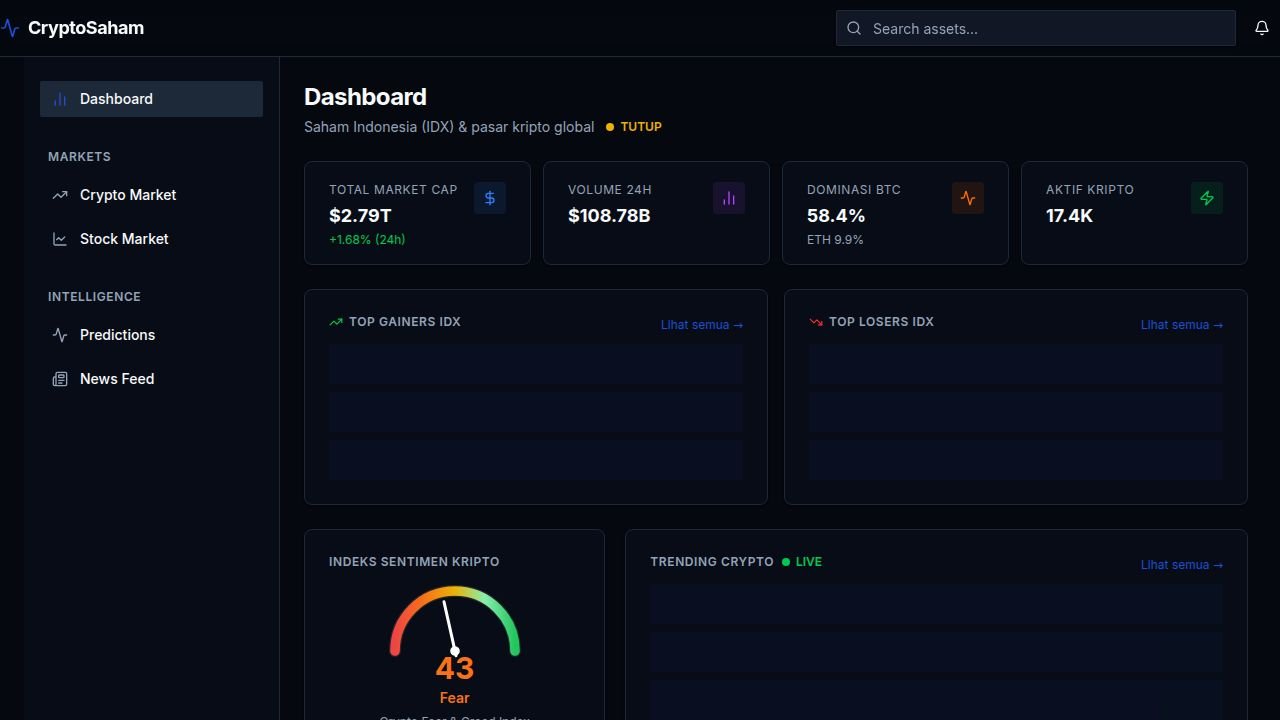
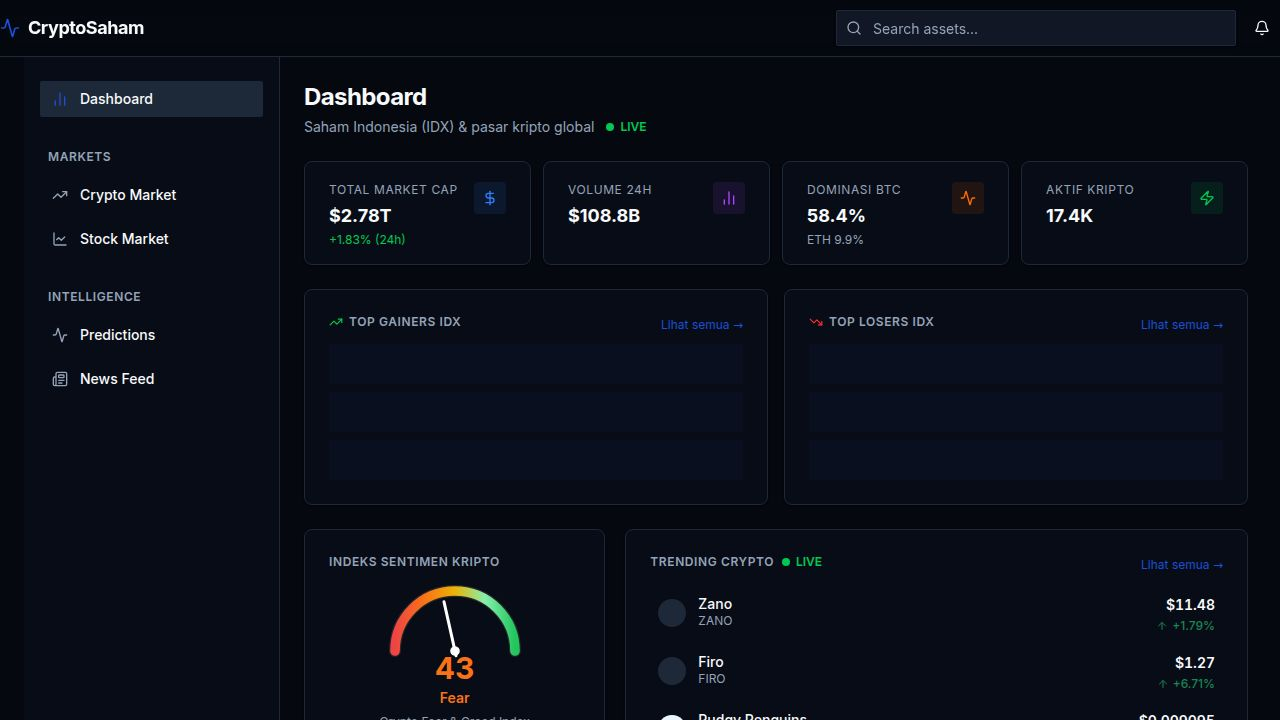
Add trade setup analysis and direction override logic for futures trading
Update `PredictionDetail.tsx` to include a detailed trade setup analysis, incorporating backend indicators, sentiment scores, and RSI. This includes a new `DirectionSignal` interface, modifications to the `buildTradeSetup` function to calculate direction overrides based on multiple evidence points, and the introduction of `TradeSetupOpts`. The changes also fix the TP percentage sign for SHORT positions and enhance the display of trading signals.

Replit-Commit-Author: Agent
Replit-Commit-Session-Id: 8d37f86b-280b-4906-b52f-c95b663b092d
Replit-Commit-Checkpoint-Type: full_checkpoint
Replit-Commit-Event-Id: dacb1cc3-58a7-4c1f-9ca8-cd51d811cc58
Replit-Commit-Screenshot-Url: https://storage.googleapis.com/screenshot-production-us-central1/5f2837b8-d4a7-41b1-ae1a-2b6d904539b2/8d37f86b-280b-4906-b52f-c95b663b092d/rMzBFxa
Replit-Helium-Checkpoint-Created: true

diff --git a/artifacts/crypto-saham/src/pages/PredictionDetail.tsx b/artifacts/crypto-saham/src/pages/PredictionDetail.tsx
@@ -36,8 +36,16 @@ type Signal = "strong_buy" | "buy" | "neutral" | "sell" | "strong_sell";
 
 /* ═══════════════════════════ TRADE SETUP ═══════════════════════════════════ */
 
+interface DirectionSignal {
+  label: string;
+  value: string;
+  bull: boolean | null; // true=bullish green, false=bearish red, null=neutral
+}
+
 interface TradeSetup {
   direction: "LONG" | "SHORT" | null;
+  directionOverridden: boolean; // true when bearish/bullish evidence overrode the base signal
+  directionSignals: DirectionSignal[];
   entryLow: number; entryHigh: number;
   stopLoss: number; slPct: number;
   tp1: number; tp1Pct: number; tp1RR: number;
@@ -46,12 +54,95 @@ interface TradeSetup {
   leverage: number; maxLeverage: number;
 }
 
+interface TradeSetupOpts {
+  backendInd?: BackendIndicators;
+  sentimentScore?: number;
+  rsi?: number;
+}
+
 function buildTradeSetup(
   signal: Signal, price: number, confidence: number,
   change24h: number, support?: number | null, resistance?: number | null,
+  opts?: TradeSetupOpts,
 ): TradeSetup | null {
   if (signal === "neutral" || price <= 0) return null;
-  const isLong = signal === "buy" || signal === "strong_buy";
+
+  // ── Direction override: count bearish vs bullish evidence ─────────────────
+  let bearish = 0;
+  let bullish = 0;
+  const b = opts?.backendInd;
+  const sent = opts?.sentimentScore ?? 0;
+  const rsi = opts?.rsi ?? 50;
+
+  if (b) {
+    if (!b.macd?.bullish)                                         bearish += 2;
+    else                                                          bullish += 2;
+    if (b.marketStructure === "downtrend")                        bearish += 3;
+    else if (b.marketStructure === "uptrend")                     bullish += 3;
+    if (b.multiTimeframeAlignment === "aligned_bear")             bearish += 2;
+    else if (b.multiTimeframeAlignment === "aligned_bull")        bullish += 2;
+    if (["bearish_engulfing","shooting_star","momentum_bear"].includes(b.candlePattern ?? "")) bearish += 1;
+    if (["bullish_engulfing","hammer","momentum_bull"].includes(b.candlePattern ?? ""))        bullish += 1;
+    if (b.bosDirection === "bearish")                             bearish += 1;
+    if (b.bosDirection === "bullish")                             bullish += 1;
+  }
+  if (sent < -0.4)      bearish += 3; // very negative news
+  else if (sent < -0.1) bearish += 1;
+  else if (sent > 0.4)  bullish += 2;
+  else if (sent > 0.1)  bullish += 1;
+  if (rsi > 78)         bearish += 2; // extreme overbought → reversal risk
+  if (rsi < 22)         bullish += 2; // extreme oversold → bounce
+
+  // Base direction from AI signal
+  let baseIsLong = signal === "buy" || signal === "strong_buy";
+  let directionOverridden = false;
+
+  // Override only when evidence is decisive AND signal is not a "strong" conviction signal
+  if (signal === "buy" && bearish >= 5 && bearish > bullish + 2) {
+    baseIsLong = false;
+    directionOverridden = true;
+  } else if (signal === "sell" && bullish >= 5 && bullish > bearish + 2) {
+    baseIsLong = true;
+    directionOverridden = true;
+  }
+  const isLong = baseIsLong;
+
+  // ── Direction signal cards for display ────────────────────────────────────
+  const directionSignals: DirectionSignal[] = [
+    {
+      label: "Sentimen Berita",
+      value: sent < -0.3 ? "Sangat Negatif" : sent < -0.1 ? "Negatif" : sent > 0.3 ? "Sangat Positif" : sent > 0.1 ? "Positif" : "Netral",
+      bull: sent < -0.1 ? false : sent > 0.1 ? true : null,
+    },
+    {
+      label: "MACD",
+      value: b?.macd ? (b.macd.bullish ? `Bullish (${b.macd.histogram > 0 ? "+" : ""}${b.macd.histogram.toFixed(2)})` : `Bearish (${b.macd.histogram > 0 ? "+" : ""}${b.macd.histogram.toFixed(2)})`) : "–",
+      bull: b?.macd ? b.macd.bullish : null,
+    },
+    {
+      label: "Struktur Pasar",
+      value: b?.marketStructure === "uptrend" ? "Uptrend (HH/HL)" : b?.marketStructure === "downtrend" ? "Downtrend (LH/LL)" : "Ranging/Sideways",
+      bull: b?.marketStructure === "uptrend" ? true : b?.marketStructure === "downtrend" ? false : null,
+    },
+    {
+      label: "Multi-Timeframe",
+      value: b?.multiTimeframeAlignment === "aligned_bull" ? "Bullish Semua TF" : b?.multiTimeframeAlignment === "aligned_bear" ? "Bearish Semua TF" : "Mixed / Tidak Selaras",
+      bull: b?.multiTimeframeAlignment === "aligned_bull" ? true : b?.multiTimeframeAlignment === "aligned_bear" ? false : null,
+    },
+    {
+      label: "RSI (14)",
+      value: rsi > 70 ? `${rsi.toFixed(0)} – Overbought` : rsi < 30 ? `${rsi.toFixed(0)} – Oversold` : `${rsi.toFixed(0)} – Normal`,
+      bull: rsi > 70 ? false : rsi < 30 ? true : null,
+    },
+    {
+      label: "Pola Candle",
+      value: b?.candlePattern ? b.candlePattern.replace(/_/g, " ") : "none",
+      bull: ["bullish_engulfing","hammer","momentum_bull"].includes(b?.candlePattern ?? "") ? true
+          : ["bearish_engulfing","shooting_star","momentum_bear"].includes(b?.candlePattern ?? "") ? false : null,
+    },
+  ];
+
+  // ── Price levels ──────────────────────────────────────────────────────────
   const entryLow  = price * (isLong ? 0.997 : 1.003);
   const entryHigh = price * (isLong ? 1.003 : 1.007);
   const vol = Math.min(Math.abs(change24h), 20);
@@ -72,6 +163,8 @@ function buildTradeSetup(
   const leverage = Math.min(baseLev + confBonus, 20);
   return {
     direction: isLong ? "LONG" : "SHORT",
+    directionOverridden,
+    directionSignals,
     entryLow, entryHigh, stopLoss,
     slPct: parseFloat(actualSlPct.toFixed(2)),
     tp1: tp(1.5), tp1Pct: tpPct(1.5), tp1RR: 1.5,
@@ -1193,7 +1286,7 @@ function FuturesTradingGuide({ setup, isCrypto, assetName }: {
                   <div>
                     <p className={`text-[11px] font-semibold uppercase tracking-wider ${t.textColor}`}>{t.label}</p>
                     <p className="text-lg font-extrabold tabular-nums mt-0.5">{fmt(t.price)}</p>
-                    <p className={`text-xs mt-0.5 ${t.textColor}`}>+{t.pct}% dari entry · {t.note}</p>
+                    <p className={`text-xs mt-0.5 ${t.textColor}`}>{isLong ? "+" : "-"}{t.pct}% dari entry · {t.note}</p>
                   </div>
                   <div className="text-right min-w-[80px]">
                     <p className="text-[10px] text-muted-foreground">Risk/Reward</p>
@@ -1243,6 +1336,36 @@ function FuturesTradingGuide({ setup, isCrypto, assetName }: {
           </ol>
         </div>
 
+        {/* Direction signals panel */}
+        <div>
+          <p className="text-xs text-muted-foreground font-semibold uppercase tracking-wider mb-2 flex items-center gap-1.5">
+            <Brain className="h-3.5 w-3.5" /> Dasar Analisis Posisi {isLong ? "LONG" : "SHORT"}
+          </p>
+          {setup.directionOverridden && (
+            <div className="mb-2 flex items-center gap-1.5 rounded-lg bg-orange-500/10 border border-orange-500/30 px-2.5 py-1.5">
+              <AlertTriangle className="h-3 w-3 text-orange-400 shrink-0" />
+              <span className="text-[11px] text-orange-400 font-semibold">
+                Arah diubah AI: bukti {isLong ? "bullish" : "bearish"} dari multiple indikator mengalahkan sinyal dasar
+              </span>
+            </div>
+          )}
+          <div className="grid grid-cols-1 gap-1">
+            {setup.directionSignals.map((s) => (
+              <div key={s.label} className="flex items-center justify-between py-1.5 px-2.5 rounded-lg bg-muted/30 border border-border">
+                <span className="text-xs text-muted-foreground">{s.label}</span>
+                <span className={`text-xs font-semibold ${s.bull === true ? "text-green-400" : s.bull === false ? "text-red-400" : "text-yellow-400"}`}>
+                  {s.bull === true ? "▲ " : s.bull === false ? "▼ " : "– "}{s.value}
+                </span>
+              </div>
+            ))}
+          </div>
+          <p className="text-[11px] text-muted-foreground mt-2">
+            {isLong
+              ? "AI merekomendasikan LONG karena sinyal bullish lebih dominan dari indikator teknikal dan sentimen berita."
+              : "AI merekomendasikan SHORT karena sinyal bearish mendominasi — harga diperkirakan akan turun berdasarkan teknikal dan/atau sentimen berita negatif."}
+          </p>
+        </div>
+
         {/* Disclaimer */}
         <div className="flex items-start gap-2 p-3 bg-yellow-500/5 border border-yellow-500/20 rounded-lg">
           <Info className="h-3.5 w-3.5 text-yellow-400 shrink-0 mt-0.5" />
@@ -1282,14 +1405,7 @@ export default function PredictionDetail() {
   const priceMin = Math.min(...(history?.prices ?? []).map((p) => p.price)) * 0.999;
   const priceMax = Math.max(...(history?.prices ?? []).map((p) => p.price)) * 1.001;
 
-  // Computed setups
-  const tradeSetup = detail?.signal && detail?.currentPrice
-    ? buildTradeSetup(
-        detail.signal as Signal, detail.currentPrice,
-        detail.confidence ?? 50, detail.priceChange24h ?? 0,
-        detail.technicalIndicators?.support, detail.technicalIndicators?.resistance,
-      ) : null;
-
+  // Computed setups — backendInd must come before tradeSetup (used for direction override)
   const ti = detail?.technicalIndicators;
   const backendInd: BackendIndicators | undefined = ti ? {
     marketStructure: (ti as any).marketStructure,
@@ -1320,6 +1436,18 @@ export default function PredictionDetail() {
     ema25: (ti as any).ema25,
     ema99: (ti as any).ema99,
   } : undefined;
+
+  const tradeSetup = detail?.signal && detail?.currentPrice
+    ? buildTradeSetup(
+        detail.signal as Signal, detail.currentPrice,
+        detail.confidence ?? 50, detail.priceChange24h ?? 0,
+        ti?.support, ti?.resistance,
+        {
+          backendInd,
+          sentimentScore: detail.sentimentScore ?? 0,
+          rsi: ti ? (ti as any).rsi : 50,
+        },
+      ) : null;
 
   const marketAnalysis = detail?.currentPrice && ti
     ? buildMarketAnalysis(